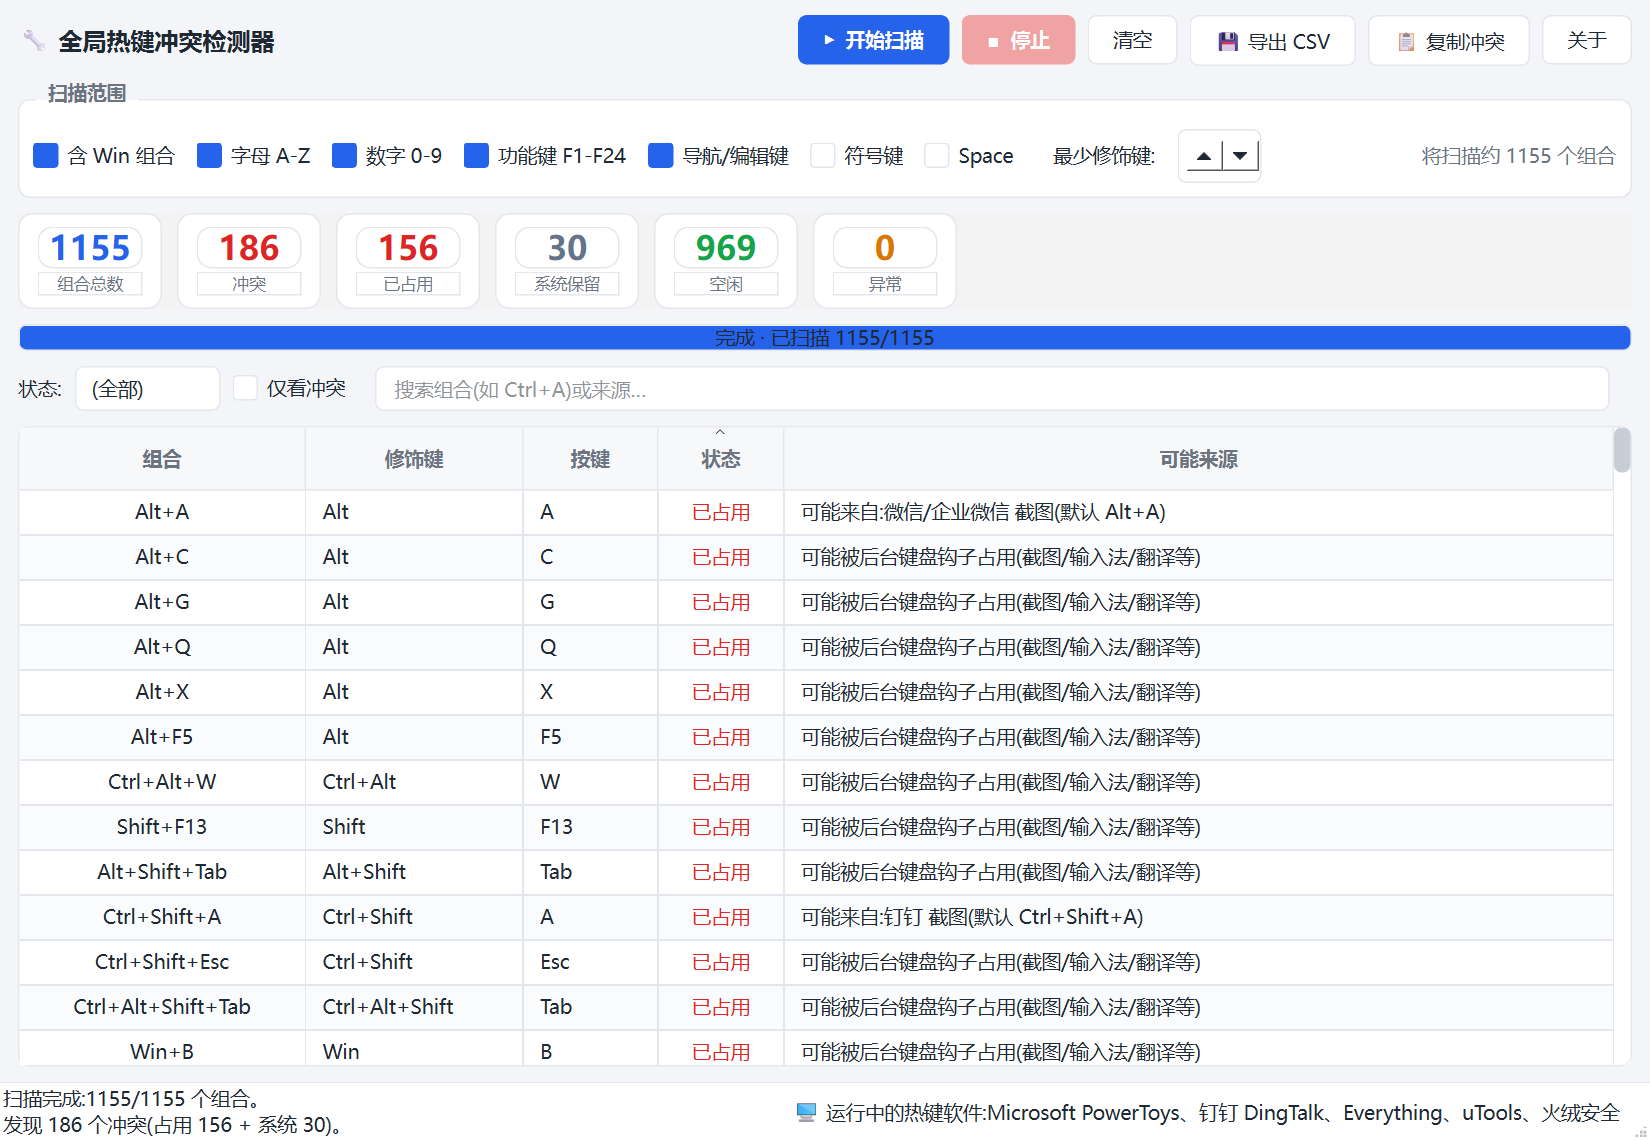
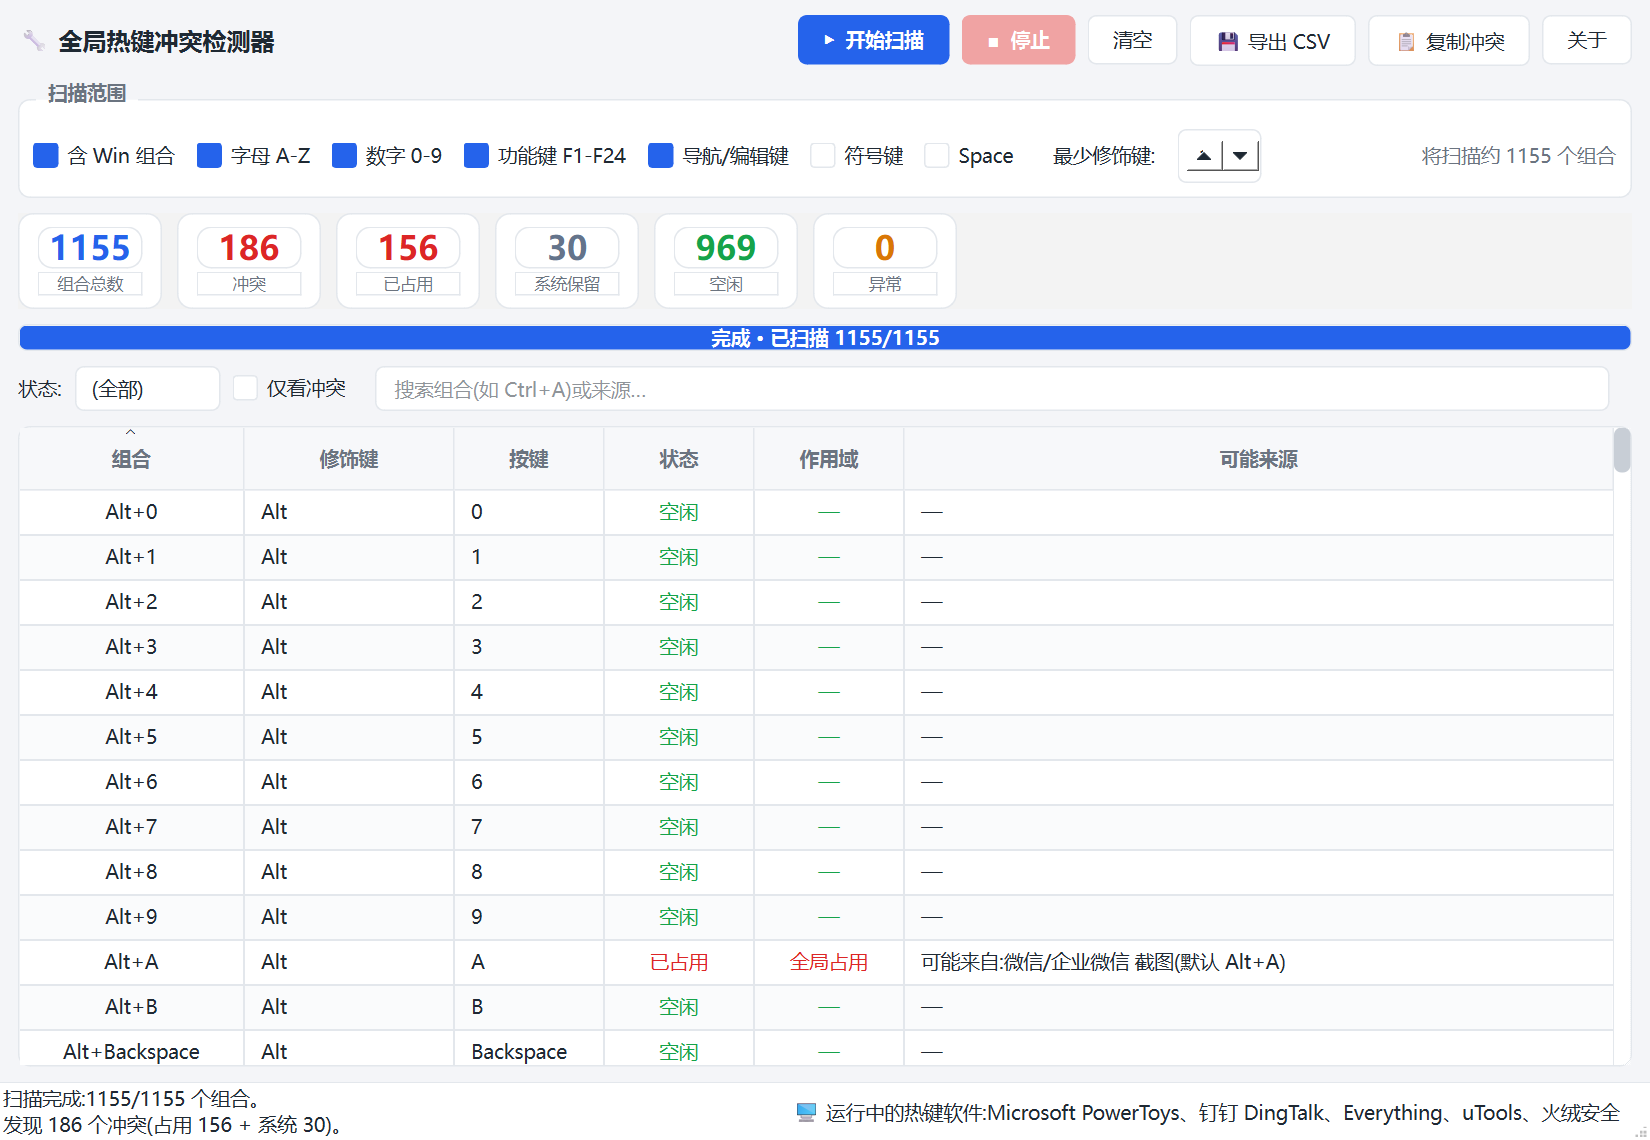
feat: 加「作用域」列 / 优化缩放 / 打包 exe
- 需求3: 表格新增「作用域」列(系统级/全局占用),帮助区分冲突性质;about 补充应用内热键不检测的说明
- 需求1: 表格列宽 ResizeToContents→固定宽度,解决千行数据下窗口缩放卡顿;修正按键(Backspace)/修饰键(Ctrl+Alt+Shift)截断
- 修复: 1409 错误码精确分类(表内系统键→系统保留;1419→程序注册;1409→后台钩子占用)
- 需求2: PyInstaller 打包 dist/HotkeyConflictDetector.exe(48MB,免 Python 运行)
- 测试: 新增作用域映射单元测试

diff --git a/ui/models.py b/ui/models.py
@@ -16,8 +16,8 @@ from .style import status_color
 
 
 # 列定义
-COLUMNS = ("组合", "修饰键", "按键", "状态", "可能来源")
-COL_COMBO, COL_MOD, COL_VK, COL_STATUS, COL_SOURCE = range(len(COLUMNS))
+COLUMNS = ("组合", "修饰键", "按键", "状态", "作用域", "可能来源")
+COL_COMBO, COL_MOD, COL_VK, COL_STATUS, COL_SCOPE, COL_SOURCE = range(len(COLUMNS))
 
 # 自定义角色:用于状态列按"冲突优先级"排序而非文字
 ROLE_SORT = QtCore.Qt.UserRole + 1
@@ -29,6 +29,14 @@ STATUS_ORDER = {
     HotkeyStatus.ERROR: 2,
     HotkeyStatus.FREE: 3,
     HotkeyStatus.SKIPPED: 4,
+}
+
+# 作用域标注:仅在被占用(冲突)时有意义,空闲等显示"—"
+# - 系统级:Windows 系统/Shell 保留(如 Win+D、Alt+Tab、Ctrl+Alt+Del)
+# - 全局占用:被程序注册或全局键盘钩子占用,在任何应用聚焦时都触发(=冲突真凶)
+SCOPE_LABEL = {
+    HotkeyStatus.SYSTEM: "系统级",
+    HotkeyStatus.OCCUPIED: "全局占用",
 }
 
 
@@ -61,12 +69,14 @@ class HotkeyTableModel(QtCore.QAbstractTableModel):
                 return vk_name(r.vk)
             if col == COL_STATUS:
                 return r.status.label
+            if col == COL_SCOPE:
+                return SCOPE_LABEL.get(r.status, "—")
             if col == COL_SOURCE:
                 return r.source or "—"
             return None
 
         if role == ROLE_SORT:
-            if col == COL_STATUS:
+            if col in (COL_STATUS, COL_SCOPE):
                 return STATUS_ORDER[r.status]
             if col == COL_MOD:
                 return r.modifiers  # 按位掩码排序
@@ -84,10 +94,17 @@ class HotkeyTableModel(QtCore.QAbstractTableModel):
                     HotkeyStatus.SKIPPED: "扫描被停止,未检测",
                 }.get(r.status, "")
                 return tip
+            if col == COL_SCOPE:
+                return (
+                    "作用域说明:\n"
+                    "• 系统级 — Windows 系统/Shell 保留,全局生效\n"
+                    "• 全局占用 — 程序注册或键盘钩子占用,在任何应用按都触发(冲突真凶)\n"
+                    "(应用内快捷键如 Word 的 Ctrl+B 只在该软件内生效,不占全局槽位,不检测)"
+                )
             if col == COL_SOURCE:
                 return r.source or "无已知来源匹配"
 
-        if col == COL_STATUS:
+        if col in (COL_STATUS, COL_SCOPE):
             if role == QtCore.Qt.ForegroundRole:
                 fg, _ = status_color(r.status.value)
                 return QtGui.QColor(fg)
@@ -97,7 +114,7 @@ class HotkeyTableModel(QtCore.QAbstractTableModel):
             if role == QtCore.Qt.TextAlignmentRole:
                 return int(QtCore.Qt.AlignCenter)
 
-        if role == QtCore.Qt.TextAlignmentRole and col in (COL_COMBO, COL_STATUS):
+        if role == QtCore.Qt.TextAlignmentRole and col == COL_COMBO:
             return int(QtCore.Qt.AlignCenter)
 
         return None
@@ -216,7 +233,9 @@ __all__ = [
     "COL_MOD",
     "COL_VK",
     "COL_STATUS",
+    "COL_SCOPE",
     "COL_SOURCE",
+    "SCOPE_LABEL",
     "HotkeyTableModel",
     "HotkeyFilterProxy",
 ]

diff --git a/ui/main_window.py b/ui/main_window.py
@@ -235,11 +235,20 @@ class MainWindow(QtWidgets.QMainWindow):
         view.setEditTriggers(QtWidgets.QAbstractItemView.NoEditTriggers)
         view.verticalHeader().setVisible(False)
         view.verticalHeader().setDefaultSectionSize(30)
-        view.horizontalHeader().setStretchLastSection(True)
-        view.horizontalHeader().setSectionResizeMode(0, QtWidgets.QHeaderView.ResizeToContents)
-        view.horizontalHeader().setSectionResizeMode(1, QtWidgets.QHeaderView.ResizeToContents)
-        view.horizontalHeader().setSectionResizeMode(2, QtWidgets.QHeaderView.ResizeToContents)
-        view.horizontalHeader().setSectionResizeMode(3, QtWidgets.QHeaderView.ResizeToContents)
+        # 固定列宽(Interactive)而非 ResizeToContents——后者在千行数据上每次窗口缩放
+        # 都要重新测量全部单元格,是缩放卡顿的主因;最后一列 Stretch 自适应剩余空间。
+        header = view.horizontalHeader()
+        header.setSectionResizeMode(0, QtWidgets.QHeaderView.Interactive)  # 组合
+        header.setSectionResizeMode(1, QtWidgets.QHeaderView.Interactive)  # 修饰键
+        header.setSectionResizeMode(2, QtWidgets.QHeaderView.Interactive)  # 按键
+        header.setSectionResizeMode(3, QtWidgets.QHeaderView.Interactive)  # 状态
+        header.setSectionResizeMode(4, QtWidgets.QHeaderView.Interactive)  # 作用域
+        header.setSectionResizeMode(5, QtWidgets.QHeaderView.Stretch)      # 可能来源
+        view.setColumnWidth(0, 150)  # 组合
+        view.setColumnWidth(1, 140)  # 修饰键(容纳 Ctrl+Alt+Shift)
+        view.setColumnWidth(2, 100)  # 按键(容纳 Backspace 等长键名)
+        view.setColumnWidth(3, 100)  # 状态
+        view.setColumnWidth(4, 100)  # 作用域
         view.setSortingEnabled(True)
         view.sortByColumn(COL_STATUS, QtCore.Qt.AscendingOrder)
         self._table = view
@@ -487,6 +496,12 @@ class MainWindow(QtWidgets.QMainWindow):
             "<p><b>原理</b>:逐个尝试注册候选热键组合,若失败说明已被占用"
             "(RegisterHotKey 探测法)。Windows 不提供「哪个进程占用哪个热键」的接口,"
             "来源识别为尽力推断。</p>"
+            "<p><b>「作用域」列说明</b>:"
+            "<br>• <b>系统级</b> = Windows 系统/Shell 保留(如 Win+D、Alt+Tab、Ctrl+Alt+Del),全局生效;"
+            "<br>• <b>全局占用</b> = 被程序注册或全局键盘钩子占用,在<b>任何</b>应用按下都会触发"
+            "——这才是会和其他快捷键冲突的来源。"
+            "<br>应用内快捷键(如 Word 的 Ctrl+B)只在那个软件激活时生效,不占用全局槽位、不会冲突,"
+            "因此不在检测范围。</p>"
             "<p><b>提示</b>:探测时会短暂占用目标组合(毫秒级),扫描很快,影响极小。</p>"
             "<p style='color:#888'>基于 Python + PySide6 · MIT License</p>",
         )

diff --git a/tests/test_smoke_offscreen.py b/tests/test_smoke_offscreen.py
@@ -74,6 +74,23 @@ def main() -> int:
     print(f"[OK] 「仅冲突」筛选显示 {shown} 行(冲突 {conflict_in_model})")
     win._proxy.set_conflict_only(False)
 
+    # 验证「作用域」列映射(不依赖真实扫描结果,直接构造各状态)
+    from core import HotkeyCombo, HotkeyResult, HotkeyStatus  # noqa: E402
+    from ui.models import COL_SCOPE, HotkeyTableModel  # noqa: E402
+
+    scope_model = HotkeyTableModel()
+    scope_model.reset_results([
+        HotkeyResult(HotkeyCombo(1, 0x41), HotkeyStatus.OCCUPIED, "x"),
+        HotkeyResult(HotkeyCombo(8, 0x44), HotkeyStatus.SYSTEM, ""),
+        HotkeyResult(HotkeyCombo(2, 0x42), HotkeyStatus.FREE, ""),
+        HotkeyResult(HotkeyCombo(4, 0x43), HotkeyStatus.ERROR, ""),
+    ])
+    scope_expect = {0: "全局占用", 1: "系统级", 2: "—", 3: "—"}
+    for row, want in scope_expect.items():
+        got = scope_model.index(row, COL_SCOPE).data()
+        assert got == want, f"作用域行{row}: 期望 {want!r}, 实际 {got!r}"
+    print("[OK] 作用域映射: OCCUPIED→全局占用 / SYSTEM→系统级 / FREE,ERROR→—")
+
     print("[OK] 冒烟测试全部通过")
     return 0
 

diff --git a/tests/capture_preview.py b/tests/capture_preview.py
@@ -36,6 +36,8 @@ def main() -> int:
     win._cb_space.setChecked(False)
 
     def capture() -> None:
+        # 按组合名排序,让截图展示不同状态/作用域的混合行(而非默认"冲突在前")
+        win._table.sortByColumn(0, QtCore.Qt.AscendingOrder)
         pix = win.grab()
         out = os.path.join(ROOT, "assets", "preview.png")
         os.makedirs(os.path.dirname(out), exist_ok=True)

diff --git a/README.md b/README.md
@@ -57,6 +57,15 @@ pip install -r requirements.txt
 python main.py
 ```
 
+### 打包成 exe(免 Python 运行)
+
+```bash
+pip install pyinstaller
+pyinstaller --noconsole --onefile --clean --name HotkeyConflictDetector main.py
+```
+
+生成 `dist/HotkeyConflictDetector.exe`(约 48MB),双击即可运行,无需安装 Python。
+
 ## 使用说明
 
 1. 在"扫描范围"勾选要检测的按键类别(默认全选)
